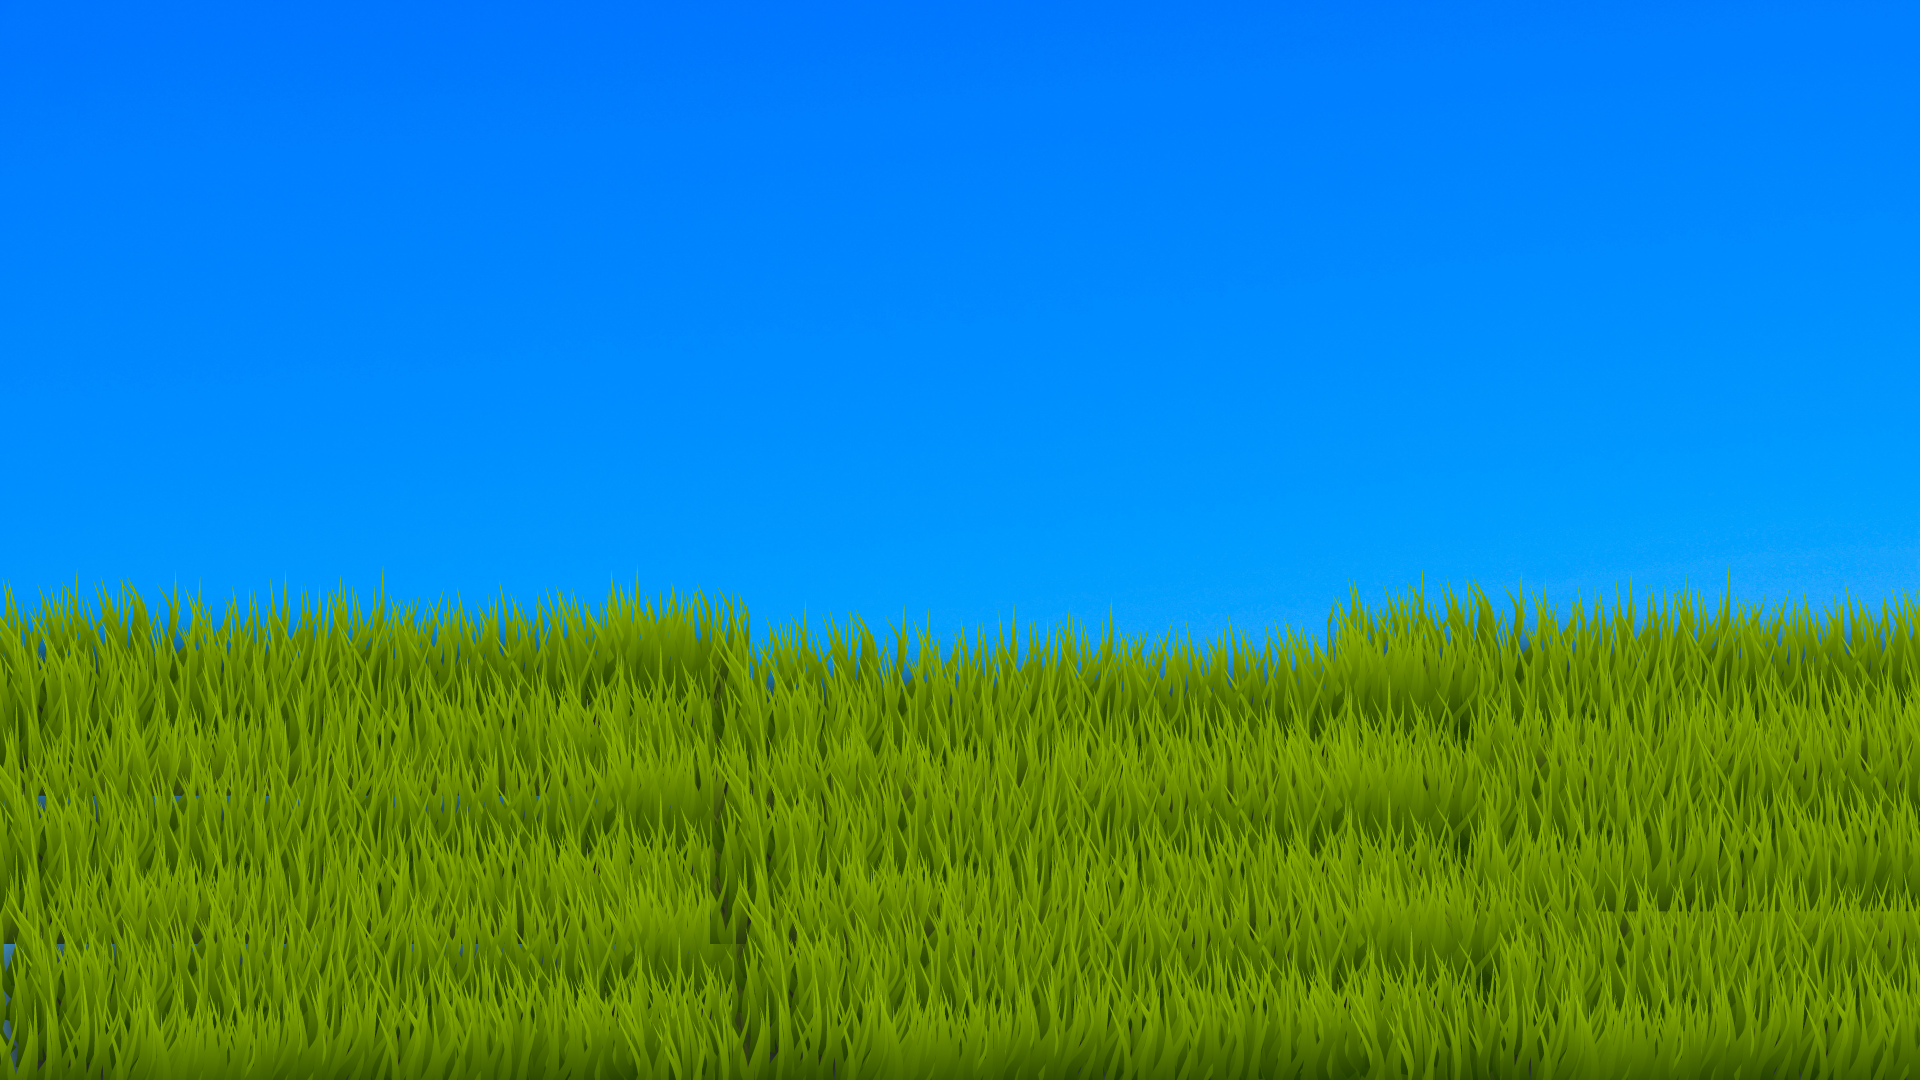
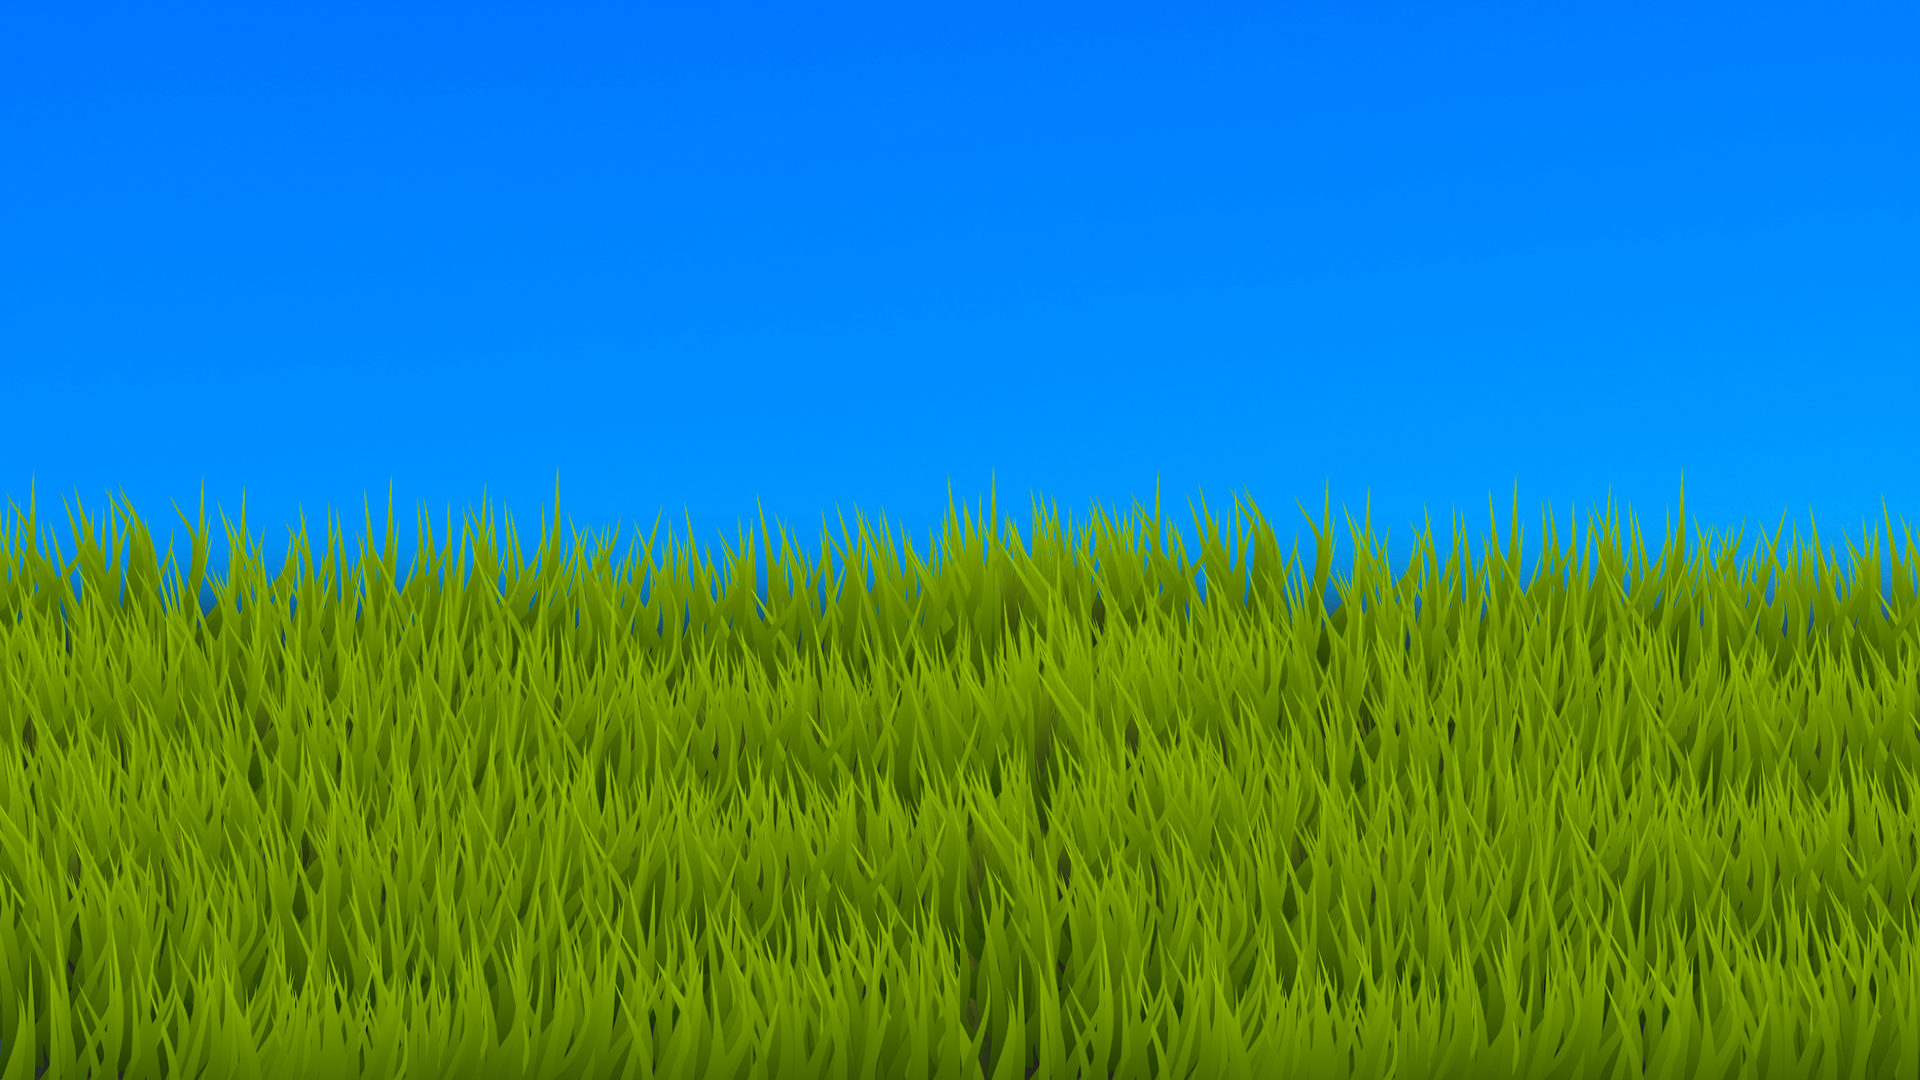
feat: icones

Changed region(s): [[0.0, 0.4583, 1.0, 1.0]]

diff --git a/src/App.css b/src/App.css
@@ -1,38 +1,7 @@
 .App {
-  text-align: center;
-}
-
-.App-logo {
-  height: 40vmin;
-  pointer-events: none;
-}
-
-@media (prefers-reduced-motion: no-preference) {
-  .App-logo {
-    animation: App-logo-spin infinite 20s linear;
-  }
-}
-
-.App-header {
-  background-color: #282c34;
-  min-height: 100vh;
-  display: flex;
-  flex-direction: column;
-  align-items: center;
-  justify-content: center;
-  font-size: calc(10px + 2vmin);
-  color: white;
-}
-
-.App-link {
-  color: #61dafb;
-}
-
-@keyframes App-logo-spin {
-  from {
-    transform: rotate(0deg);
-  }
-  to {
-    transform: rotate(360deg);
-  }
+  background-image: url('./images/wallpaper.png');
+  background-size: cover;
+  background-repeat: no-repeat;
+  width: 100vw;
+  height: 100vh;
 }
